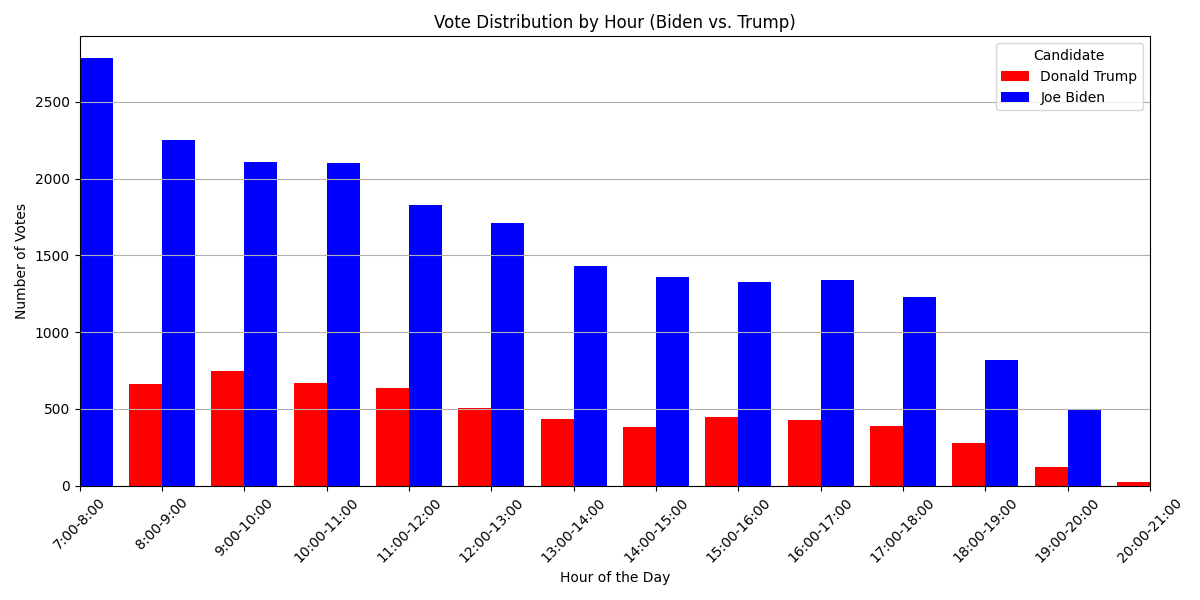
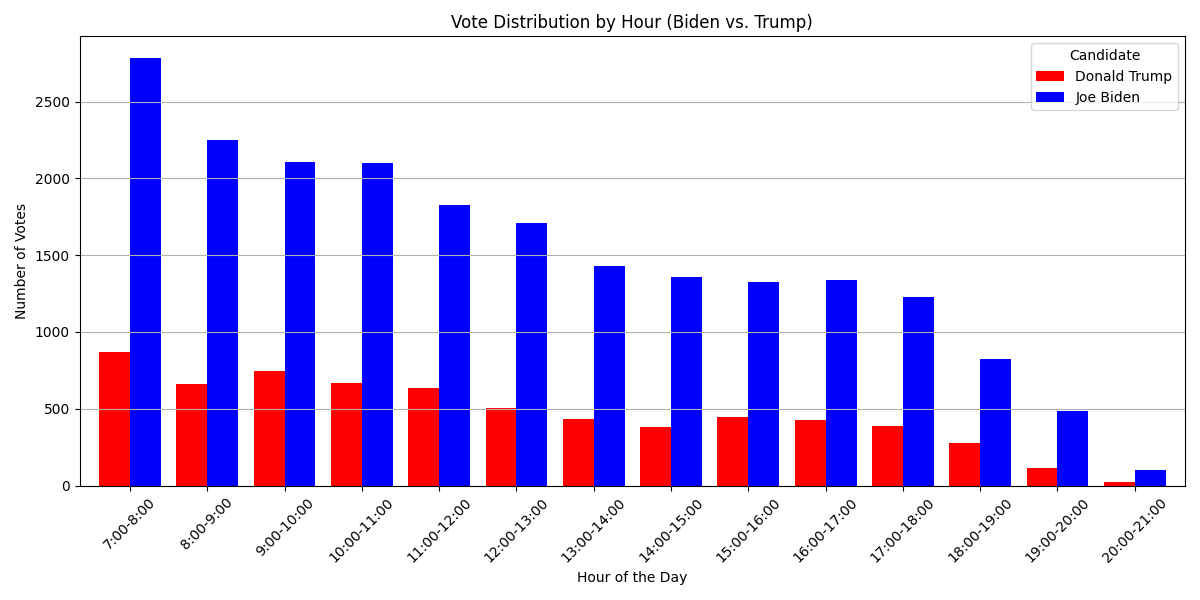
fix pres bar graph

diff --git a/analyze_logs.py b/analyze_logs.py
@@ -9,7 +9,7 @@ folder_path = "batch0_SF"
 # Initialize a DataFrame to store vote data
 vote_data = []
 skip_ids = [38, 64, 67, 114, 120, 121, 133, 135, 187, 197, 198, 225, 226, 227, 238, 248, 
-            250, 319, 328, 395, 400, 401, 477, 499, 517, 545, 582, 593, 596, 606, 607, 616, 618]
+            250, 319, 328, 395, 400, 401, 477, 498, 499, 517, 545, 582, 593, 596, 606, 607, 616, 618]
 # Iterate through each file in the folder
 for filename in os.listdir(folder_path):
     if filename.endswith(".json"):
@@ -62,7 +62,6 @@ plt.xlabel("Hour of the Day")
 plt.ylabel("Number of Votes")
 plt.xticks(ticks=range(len(grouped.index)), labels=[f"{int(hour)}:00-{int(hour+1)}:00" for hour in grouped.index], rotation=45)
 plt.legend(title="Candidate")
-plt.xlim(6, 19)
 plt.tight_layout()
 plt.grid(axis='y')
 plt.savefig('presidential_bar_graph.png')
